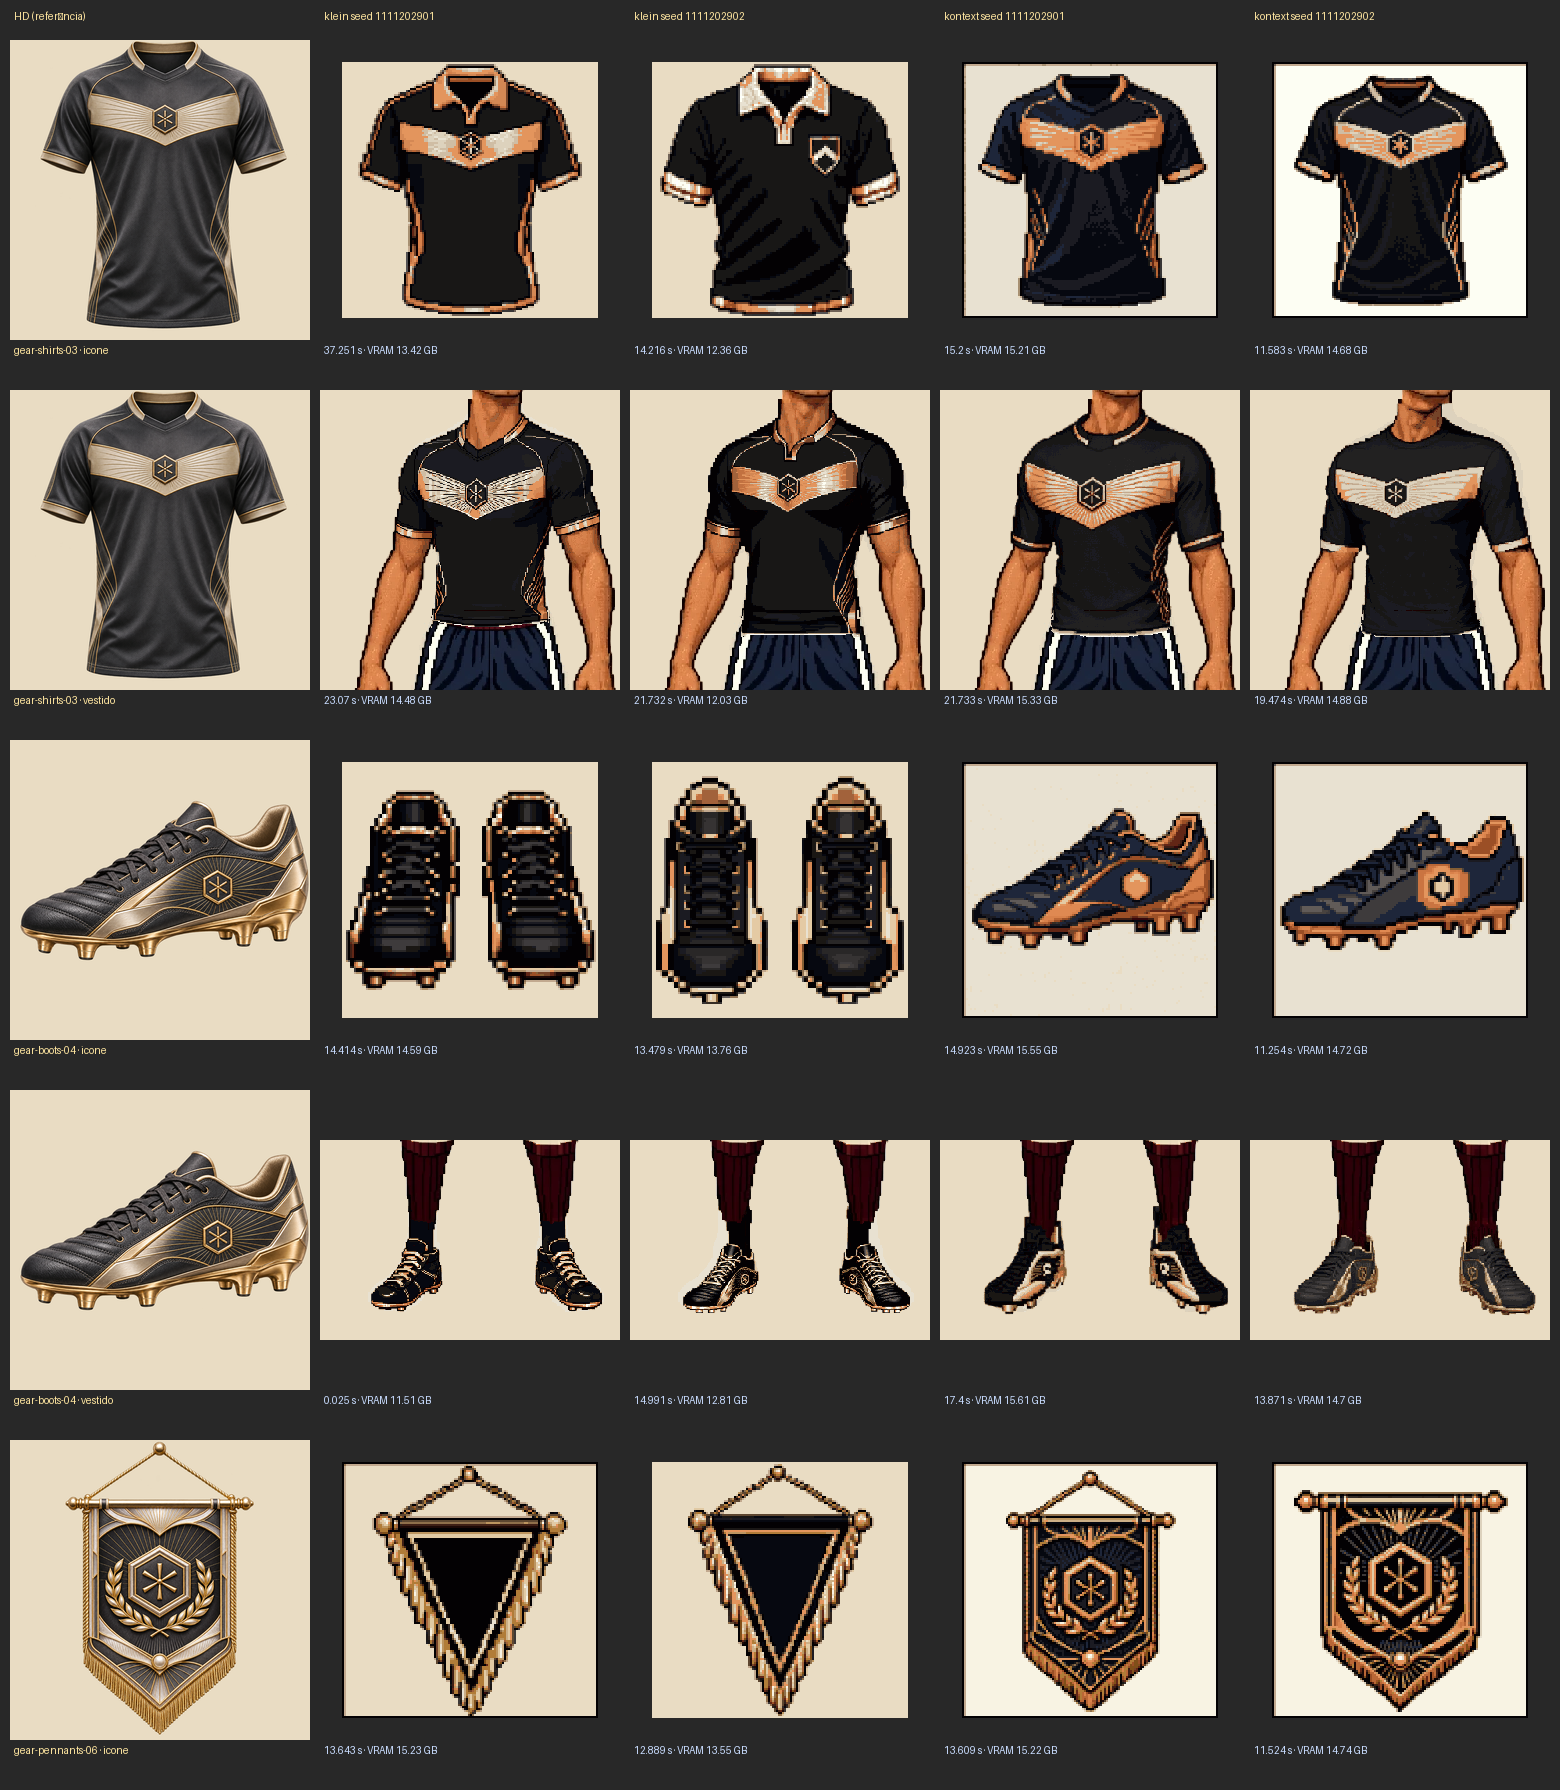
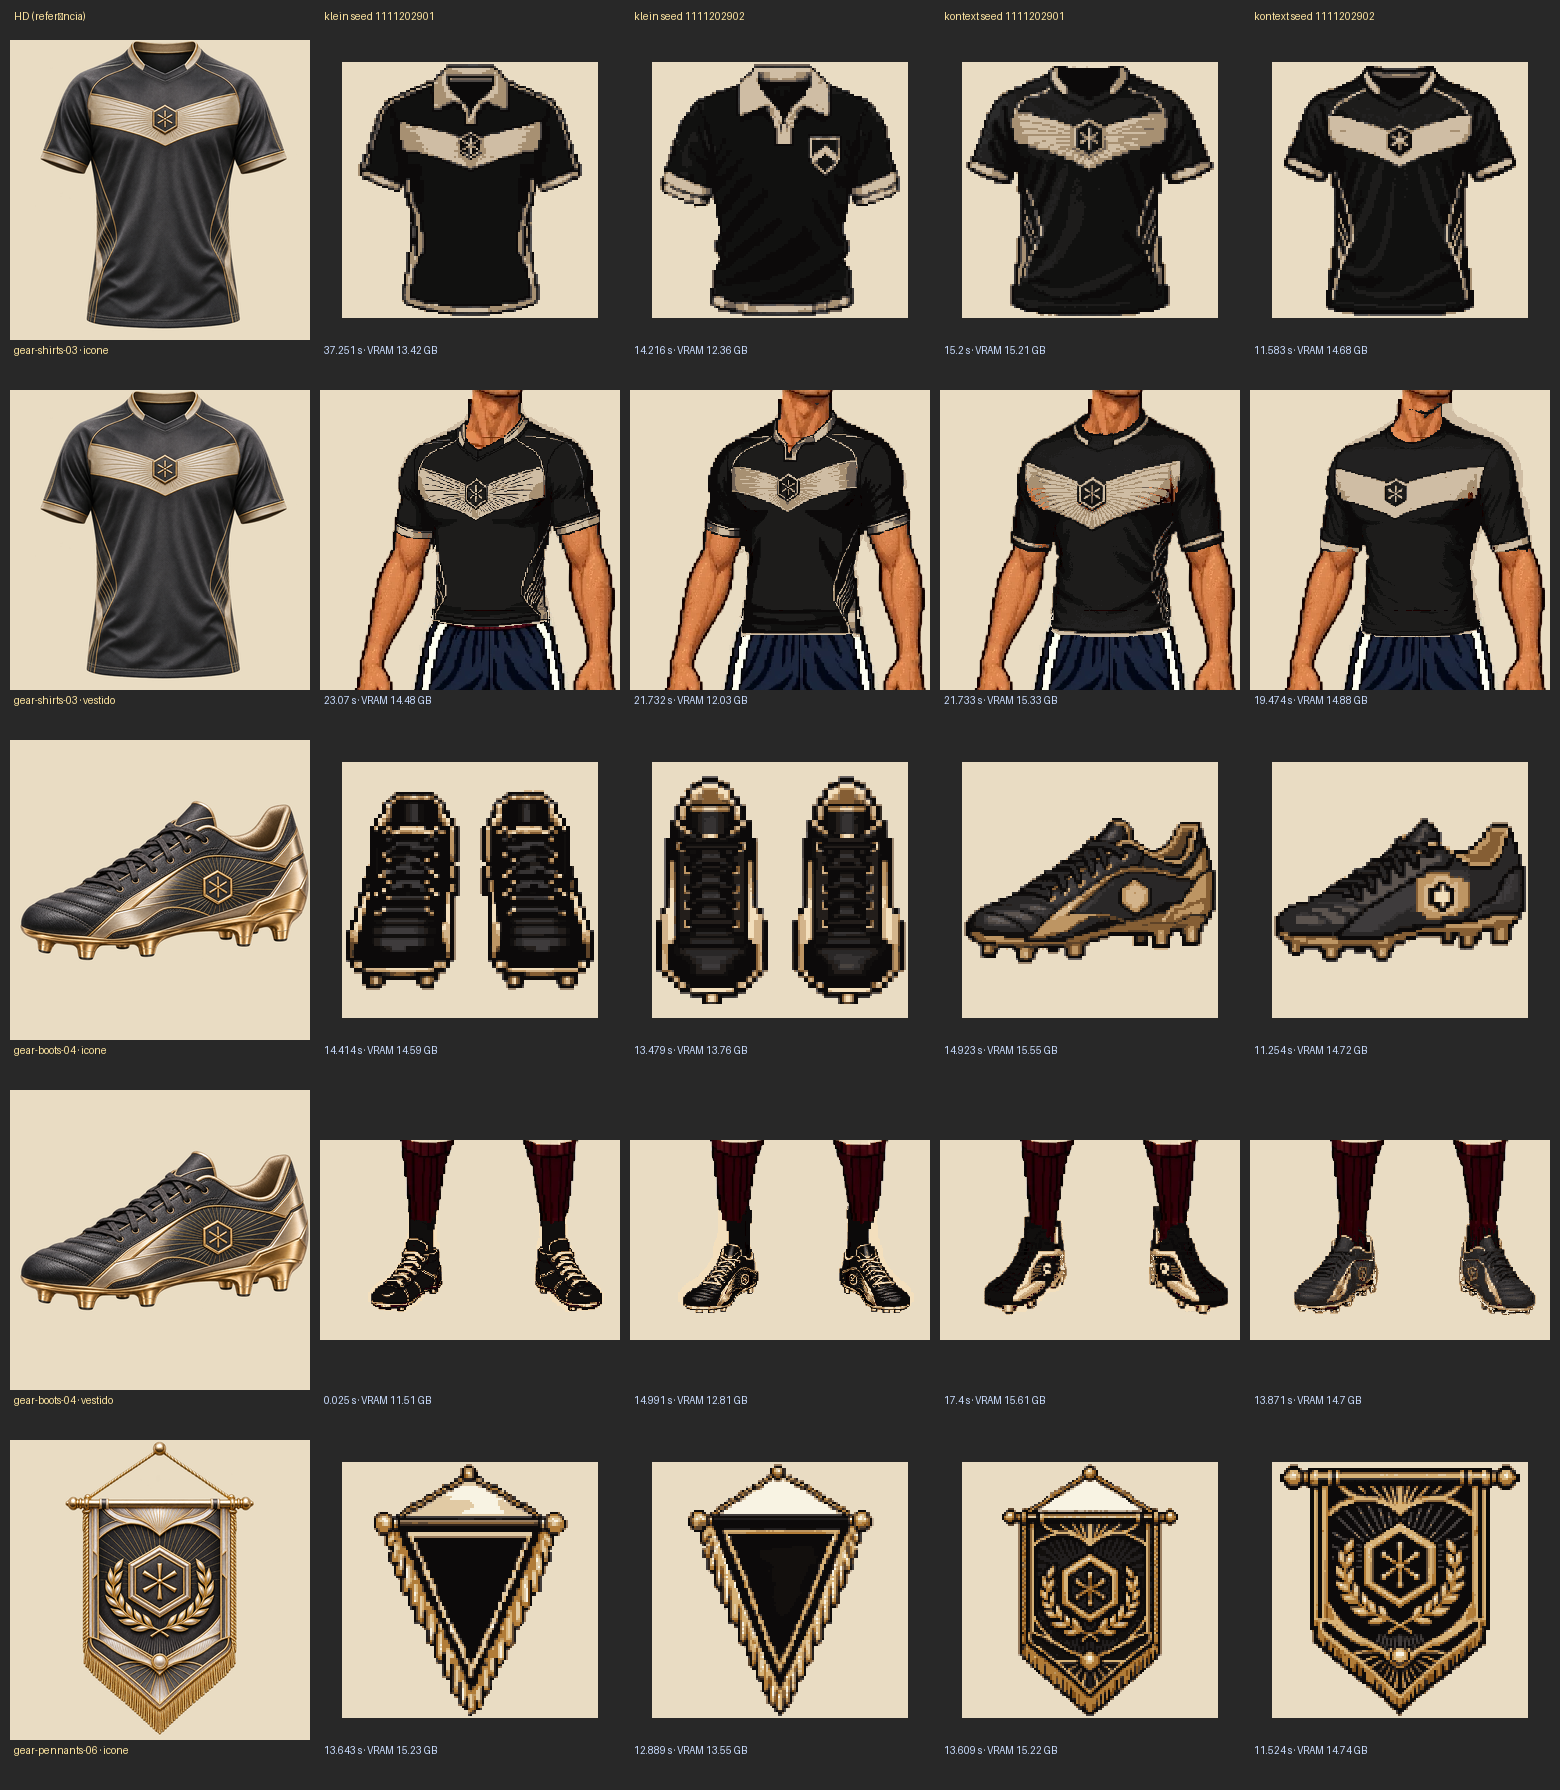
Metálicos: acabamento corrigido (paleta só do HD, fundo recortado, sem pele) e folha curta do Kontext

diff --git a/avatar-teste/cromo-classico/metalicos/ab/scripts/ab_sheet.py b/avatar-teste/cromo-classico/metalicos/ab/scripts/ab_sheet.py
@@ -25,11 +25,13 @@ def cromo_palette():
     return np.asarray(img.quantize(32, method=Image.MEDIANCUT).getpalette()[:96]).reshape(32, 3)
 
 
-def metal_palette(key):
+def metal_palette(key, n=16):
+    """The item's own colours only (black, dark greys, champagne gold), from its HD: no skin, no blue."""
     hd = np.asarray(Image.open(PREP / f'{key}-hd.png').convert('RGB'))
     fg = hd[np.abs(hd.astype(int) - BG).max(axis=2) > 18]
     img = Image.fromarray(fg[np.random.default_rng(1).choice(len(fg), 40000)].reshape(200, 200, 3))
-    return np.asarray(img.quantize(12, method=Image.MEDIANCUT).getpalette()[:36]).reshape(12, 3)
+    pal = np.asarray(img.quantize(n, method=Image.MEDIANCUT).getpalette()[:n * 3]).reshape(n, 3)
+    return np.concatenate([pal, [[12, 10, 10]]])  # plus a near-black for the pixel-art outline
 
 
 def quantize(rgb, pal):
@@ -38,15 +40,18 @@ def quantize(rgb, pal):
 
 
 def icon(tag, pal):
+    from fem_build import background
     im = np.asarray(Image.open(JOBS / f'{tag}.png').convert('RGB'))
-    fg = np.abs(im.astype(int) - BG).max(axis=2) > 18
+    # Background cut by flood fill from the borders, with the generated background's own tone.
+    fg = ~background(im.astype(float), tol=26)
     ys, xs = np.where(fg)
     side = max(ys.max() - ys.min(), xs.max() - xs.min()) + 16
     cy, cx = (ys.max() + ys.min()) // 2, (xs.max() + xs.min()) // 2
     box = (cx - side // 2, cy - side // 2, cx + side // 2, cy + side // 2)
     small = np.asarray(Image.fromarray(im).crop(box).resize((128, 128), Image.BOX))
+    fgs = np.asarray(Image.fromarray((fg * 255).astype(np.uint8)).crop(box).resize((128, 128), Image.BOX)) > 127
     q = quantize(small, pal)
-    alpha = np.where(np.abs(small.astype(int) - BG).max(axis=2) > 18, 255, 0).astype(np.uint8)
+    alpha = np.where(fgs, 255, 0).astype(np.uint8)
     return Image.fromarray(np.dstack([q, alpha]), 'RGBA')
 
 
@@ -59,7 +64,9 @@ def worn(tag, key, pal):
     base = np.asarray(Image.open(PREP / f'{key}-corpo-2x.png').convert('RGB').resize((x1 - x0, y1 - y0), Image.NEAREST))
     changed = np.abs(res.astype(int) - base.astype(int)).max(axis=2) > 12
     q = quantize(res, pal)
-    alpha = np.where(mask & changed, 255, 0).astype(np.uint8)
+    from var_skin import skinlike
+    # Skin redrawn inside the mask (neck, arms) is not fabric: leave it to the base, in its own tone.
+    alpha = np.where(mask & changed & ~skinlike(res), 255, 0).astype(np.uint8)
     layer = np.zeros((1024, 512, 4), np.uint8)
     layer[y0:y1, OX + x0:OX + x1] = np.dstack([q, alpha])
     return layer
@@ -81,7 +88,7 @@ def main():
         d.text((14 + c * (cell + 10), 10), name, fill=(255, 230, 160))
     row = 0
     for key, it in ITEMS.items():
-        pal = np.concatenate([cromo, metal_palette(key)])
+        pal = metal_palette(key)
         for kind in (['icone', 'vestido'] if it['crop'] else ['icone']):
             y = 40 + row * (cell + 50)
             hd = Image.open(PREP / f'{key}-hd.png').resize((cell, cell), Image.LANCZOS)

diff --git a/avatar-teste/cromo-classico/metalicos/ab/README.md b/avatar-teste/cromo-classico/metalicos/ab/README.md
@@ -20,3 +20,9 @@ Em cada item há um **ícone** pixel art, gerado a partir do HD. Na camisola e n
 
 1. **O dourado-champanhe vira cobre/laranja.** A paleta partilha cores com a pele. Proposta: nos itens, quantizar só com a paleta metálica do item mais os contornos escuros.
 2. **Nos ícones do Kontext fica um quadrado de fundo claro.** O fundo que gera não é exatamente o bege. Proposta: recortar o fundo por preenchimento a partir das bordas.
+
+## Correções aplicadas (`folha-ab-corrigida-kontext.png`, só o Kontext; `folha-ab.png` atualizada)
+
+1. **Paleta só do HD de origem**: 16 cores do item (preto, cinzas escuros, dourado-champanhe) mais um quase-preto para o contorno. Sem cores de pele nem azul, por isso o dourado já não vira cobre e o preto das chuteiras já não sai azul-marinho.
+2. **Fundo dos ícones**: recortado por preenchimento a partir das bordas, com o tom do fundo gerado.
+3. **Camadas vestidas**: a pele redesenhada dentro da máscara (pescoço, braços) sai da camada, para se ver a pele da base no tom escolhido.
